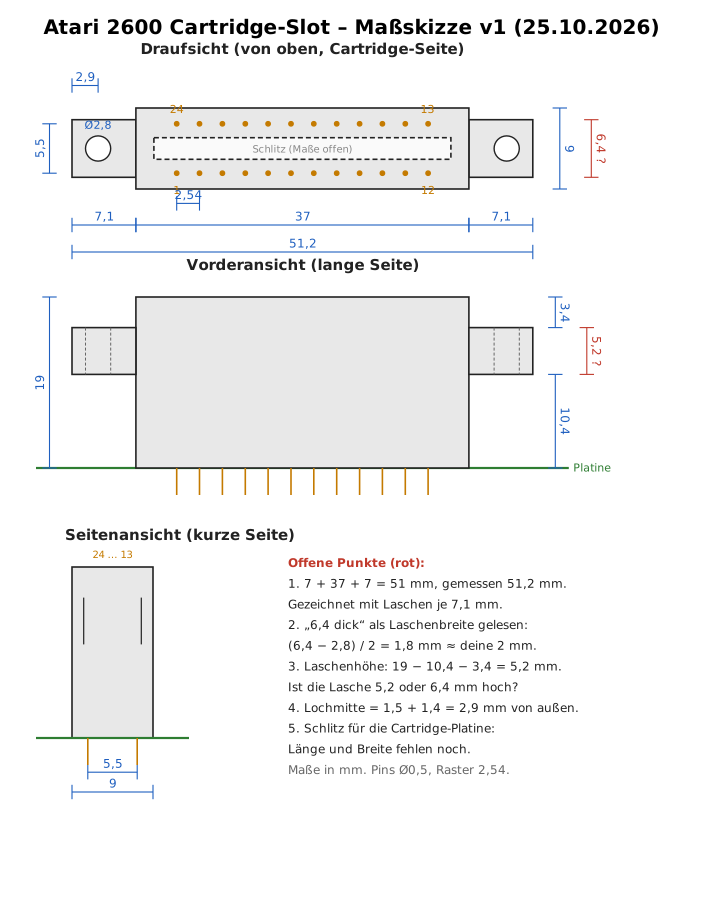
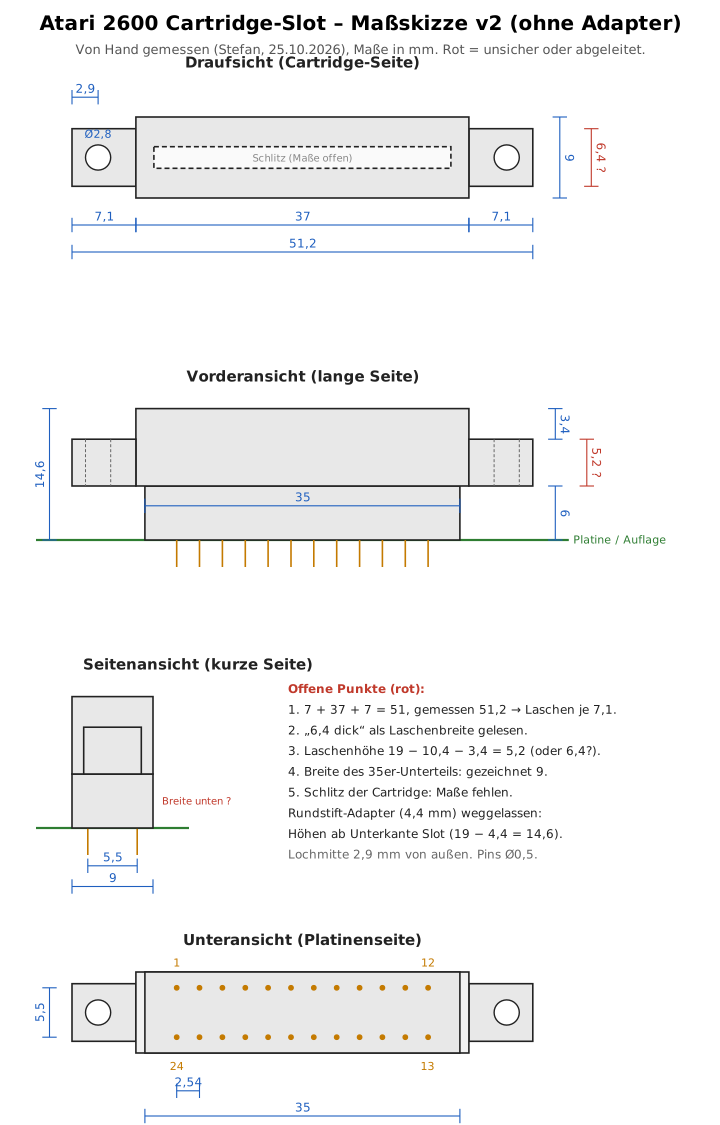
Slot drawing v2: lower part, four views, without socket-strip adapter
Claude-Session: https://claude.ai/code/session_015VQCpzuZ22TPQEmx9cLrbH

diff --git a/hardware/slot-drawing/zeichnung.py b/hardware/slot-drawing/zeichnung.py
@@ -1,16 +1,23 @@
-# 2D-Massskizze Atari-2600-Cartridge-Slot nach Stefans Messung (25.10.2026)
+# 2D-Massskizze Atari-2600-Cartridge-Slot, von Hand gemessen (Stefan, 25.10.2026)
 import sys
-L, W, H = 51.2, 9.0, 19.0          # Gesamtlaenge, -breite, Hoehe ueber Platine
+L, W = 51.2, 9.0
+ADP = 4.4                           # abgezogener Rundstift-Adapter (10,4 - 6), nicht verbaut
+H = 19.0 - ADP                      # Hoehe ab Unterkante Slot
 INNER = 37.0                        # Steckleiste ohne Laschen
-EAR = (L - INNER) / 2               # Laschenlaenge (gemessen 7, Summe passt nur mit 7,1)
-EAR_W = 6.4                         # Laschenbreite (Annahme: "6,4 dick" = Breite)
-HOLE_D, HOLE_EDGE = 2.8, 1.5        # Loch, Abstand Lochrand zur Aussenkante
+LOW_L, LOW_H = 35.0, 6.0            # schmaler Unterteil unter den Laschen
+EAR = (L - INNER) / 2
+EAR_W = 6.4                         # Annahme: "6,4 dick" = Laschenbreite
+HOLE_D, HOLE_EDGE = 2.8, 1.5
 HOLE_X = HOLE_EDGE + HOLE_D / 2
-EAR_Z0, EAR_TOP_GAP = 10.4, 3.4     # Lasche ab Platine, Absatz bis Oberkante
+EAR_Z0, EAR_TOP_GAP = 10.4 - ADP, 3.4
 EAR_Z1 = H - EAR_TOP_GAP
+STRIP_W = 2.5                       # Buchsenleiste einreihig, typisch
 PITCH, ROW, NPIN, PIN_D = 2.54, 5.5, 12, 0.5
-S = 9                               # px pro mm
+STRIP_L = NPIN * PITCH
+S = 9
+RED, DIM, PIN, ADPC = '#c0392b', '#1f5fbf', '#c47a00', '#d9c7a0'
 out = []
+def f(v): return f'{v:.1f}'.replace('.', ',').replace(',0', '') if abs(v - round(v)) < 1e-6 else f'{v:.1f}'.replace('.', ',')
 def ln(x1, y1, x2, y2, c='#222', w=1.6, dash=None):
     out.append(f'<line x1="{x1*S:.1f}" y1="{y1*S:.1f}" x2="{x2*S:.1f}" y2="{y2*S:.1f}" stroke="{c}" stroke-width="{w}"' + (f' stroke-dasharray="{dash}"' if dash else '') + '/>')
 def rect(x, y, w, h, fill='#e8e8e8', c='#222', dash=None):
@@ -20,84 +27,98 @@ def circ(x, y, d, fill='white', c='#222'):
 def txt(x, y, t, size=13, c='#222', anchor='middle', rot=0, bold=False):
     tr = f' transform="rotate({rot} {x*S:.1f} {y*S:.1f})"' if rot else ''
     out.append(f'<text x="{x*S:.1f}" y="{y*S:.1f}" font-family="DejaVu Sans, sans-serif" font-size="{size}" fill="{c}" text-anchor="{anchor}"' + (' font-weight="bold"' if bold else '') + f'{tr}>{t}</text>')
-DIM = '#1f5fbf'
 def dimh(x1, x2, y, t, c=DIM):
     ln(x1, y, x2, y, c, 1.1); ln(x1, y - .8, x1, y + .8, c, 1.1); ln(x2, y - .8, x2, y + .8, c, 1.1)
     txt((x1 + x2) / 2, y - .5, t, 12, c)
 def dimv(x, y1, y2, t, c=DIM, left=True):
     ln(x, y1, x, y2, c, 1.1); ln(x - .8, y1, x + .8, y1, c, 1.1); ln(x - .8, y2, x + .8, y2, c, 1.1)
     txt(x - .6 if left else x + .6, (y1 + y2) / 2, t, 12, c, 'middle', -90 if left else 90)
-
 pin_x0 = (L - (NPIN - 1) * PITCH) / 2
+def pins(ox, cy):
+    for i in range(NPIN):
+        for dy in (ROW / 2, -ROW / 2):
+            circ(ox + pin_x0 + i * PITCH, cy + dy, PIN_D, PIN, PIN)
+
 # --- Draufsicht ---
-ox, oy = 8, 12
-txt(ox + L / 2, oy - 6, 'Draufsicht (von oben, Cartridge-Seite)', 15, bold=True)
+ox, oy = 8, 13
+txt(ox + L / 2, oy - 5.5, 'Draufsicht (Cartridge-Seite)', 15, bold=True)
 rect(ox, oy + (W - EAR_W) / 2, EAR, EAR_W); rect(ox + L - EAR, oy + (W - EAR_W) / 2, EAR, EAR_W)
 rect(ox + EAR, oy, INNER, W)
 rect(ox + EAR + 2, oy + W / 2 - 1.2, INNER - 4, 2.4, fill='#fafafa', dash='5,3')
 txt(ox + L / 2, oy + W / 2 + .45, 'Schlitz (Maße offen)', 10, '#888')
 for xh in (ox + HOLE_X, ox + L - HOLE_X):
     circ(xh, oy + W / 2, HOLE_D)
-for i in range(NPIN):
-    circ(ox + pin_x0 + i * PITCH, oy + W / 2 + ROW / 2, PIN_D, '#c47a00', '#c47a00')
-    circ(ox + pin_x0 + i * PITCH, oy + W / 2 - ROW / 2, PIN_D, '#c47a00', '#c47a00')
-txt(ox + pin_x0, oy + W / 2 + ROW / 2 + 2.3, '1', 11, '#c47a00'); txt(ox + pin_x0 + 11 * PITCH, oy + W / 2 + ROW / 2 + 2.3, '12', 11, '#c47a00')
-txt(ox + pin_x0, oy + W / 2 - ROW / 2 - 1.2, '24', 11, '#c47a00'); txt(ox + pin_x0 + 11 * PITCH, oy + W / 2 - ROW / 2 - 1.2, '13', 11, '#c47a00')
-dimh(ox, ox + L, oy + W + 7, f'{L:.1f}'.replace('.', ','))
-dimh(ox, ox + EAR, oy + W + 4, f'{EAR:.1f}'.replace('.', ','))
-dimh(ox + EAR, ox + L - EAR, oy + W + 4, f'{INNER:.0f}')
-dimh(ox + L - EAR, ox + L, oy + W + 4, f'{EAR:.1f}'.replace('.', ','))
-dimh(ox, ox + HOLE_X, oy - 2.5, f'{HOLE_X:.1f}'.replace('.', ','))
+dimh(ox, ox + L, oy + W + 6, f(L))
+dimh(ox, ox + EAR, oy + W + 3, f(EAR)); dimh(ox + EAR, ox + L - EAR, oy + W + 3, f(INNER)); dimh(ox + L - EAR, ox + L, oy + W + 3, f(EAR))
+dimh(ox, ox + HOLE_X, oy - 2.2, f(HOLE_X))
 txt(ox + HOLE_X, oy + W / 2 - 2.2, 'Ø2,8', 11, DIM)
 dimv(ox + L + 3, oy, oy + W, '9', left=False)
-dimv(ox + L + 6.5, oy + (W - EAR_W) / 2, oy + (W + EAR_W) / 2, '6,4 ?', c='#c0392b', left=False)
-dimv(ox - 2.5, oy + W / 2 - ROW / 2, oy + W / 2 + ROW / 2, '5,5')
-dimh(ox + pin_x0, ox + pin_x0 + PITCH, oy + W + 1.6, '2,54')
+dimv(ox + L + 6.5, oy + (W - EAR_W) / 2, oy + (W + EAR_W) / 2, '6,4 ?', c=RED, left=False)
+
 # --- Vorderansicht ---
-fx, fy = 8, 52
-txt(fx + L / 2, fy - 22, 'Vorderansicht (lange Seite)', 15, bold=True)
-base = fy
-ln(fx - 4, base, fx + L + 4, base, '#2e7d32', 2.2); txt(fx + L + 4.5, base + .4, 'Platine', 11, '#2e7d32', 'start')
-rect(fx + EAR, base - H, INNER, H)
+fx, base = 8, 60
+txt(fx + L / 2, base - H - 3, 'Vorderansicht (lange Seite)', 15, bold=True)
+ln(fx - 4, base, fx + L + 4, base, '#2e7d32', 2.2); txt(fx + L + 4.5, base + .4, 'Platine / Auflage', 11, '#2e7d32', 'start')
+rect(fx + (L - LOW_L) / 2, base - EAR_Z0, LOW_L, LOW_H)
+rect(fx + EAR, base - H, INNER, H - EAR_Z0)
 for x0 in (fx, fx + L - EAR):
     rect(x0, base - EAR_Z1, EAR, EAR_Z1 - EAR_Z0)
     xh = x0 + (HOLE_X if x0 == fx else EAR - HOLE_X)
-    ln(xh - HOLE_D / 2, base - EAR_Z1, xh - HOLE_D / 2, base - EAR_Z0, '#666', 1, '3,2'); ln(xh + HOLE_D / 2, base - EAR_Z1, xh + HOLE_D / 2, base - EAR_Z0, '#666', 1, '3,2')
+    for s in (-1, 1):
+        ln(xh + s * HOLE_D / 2, base - EAR_Z1, xh + s * HOLE_D / 2, base - EAR_Z0, '#666', 1, '3,2')
 for i in range(NPIN):
-    ln(fx + pin_x0 + i * PITCH, base, fx + pin_x0 + i * PITCH, base + 3, '#c47a00', 1.6)
-dimv(fx - 2.5, base - H, base, '19')
-dimv(fx + L + 2.5, base - EAR_Z0, base, '10,4', left=False)
+    ln(fx + pin_x0 + i * PITCH, base, fx + pin_x0 + i * PITCH, base + 3, PIN, 1.6)
+dimv(fx - 2.5, base - H, base, f(H))
+dimv(fx + L + 2.5, base - EAR_Z0, base, f(EAR_Z0), left=False)
 dimv(fx + L + 2.5, base - H, base - EAR_Z1, '3,4', left=False)
-dimv(fx + L + 6, base - EAR_Z1, base - EAR_Z0, f'{EAR_Z1-EAR_Z0:.1f} ?'.replace('.', ','), c='#c0392b', left=False)
+dimv(fx + L + 6, base - EAR_Z1, base - EAR_Z0, f(EAR_Z1 - EAR_Z0) + ' ?', c=RED, left=False)
+dimh(fx + (L - LOW_L) / 2, fx + (L + LOW_L) / 2, base - EAR_Z0 + 2.2, '35')
+
 # --- Seitenansicht ---
-sx, sy = 8, 82
-txt(sx + 12, sy - 22, 'Seitenansicht (kurze Seite)', 15, bold=True)
-rect(sx + (W - EAR_W) / 2, sy - EAR_Z1, EAR_W, EAR_Z1 - EAR_Z0)
-rect(sx, sy - H, W, H, fill='#e8e8e8')
-ln(sx + (W - EAR_W) / 2, sy - EAR_Z1, sx + (W - EAR_W) / 2, sy - EAR_Z0, '#222', 1.2)
-ln(sx + (W + EAR_W) / 2, sy - EAR_Z1, sx + (W + EAR_W) / 2, sy - EAR_Z0, '#222', 1.2)
-ln(sx - 4, sy, sx + W + 4, sy, '#2e7d32', 2.2)
+sx, sb = 8, 92
+txt(sx + 14, sb - H - 3, 'Seitenansicht (kurze Seite)', 15, bold=True)
+ln(sx - 4, sb, sx + W + 4, sb, '#2e7d32', 2.2)
 for yy in (W / 2 - ROW / 2, W / 2 + ROW / 2):
-    ln(sx + yy, sy, sx + yy, sy + 3, '#c47a00', 1.6)
-dimh(sx, sx + W, sy + 6, '9')
-dimh(sx + W / 2 - ROW / 2, sx + W / 2 + ROW / 2, sy + 3.8, '5,5')
-txt(sx + W / 2, sy - H - 1, '24 … 13', 10, '#c47a00')
+    ln(sx + yy, sb, sx + yy, sb + 3, PIN, 1.6)
+rect(sx, sb - EAR_Z0, W, LOW_H)
+rect(sx, sb - H, W, H - EAR_Z0)
+rect(sx + (W - EAR_W) / 2, sb - EAR_Z1, EAR_W, EAR_Z1 - EAR_Z0)
+dimh(sx, sx + W, sb + 6.5, '9')
+dimh(sx + W / 2 - ROW / 2, sx + W / 2 + ROW / 2, sb + 4.2, '5,5')
+txt(sx + W + 1, sb - EAR_Z0 + LOW_H / 2 + .4, 'Breite unten ?', 10, RED, 'start')
+
+# --- Unteransicht ---
+ux, uy = 8, 108
+txt(ux + L / 2, uy - 3, 'Unteransicht (Platinenseite)', 15, bold=True)
+rect(ux, uy + (W - EAR_W) / 2, EAR, EAR_W); rect(ux + L - EAR, uy + (W - EAR_W) / 2, EAR, EAR_W)
+rect(ux + EAR, uy, INNER, W, fill='#f2f2f2')
+rect(ux + (L - LOW_L) / 2, uy, LOW_L, W)
+for yy in (W / 2 - ROW / 2, W / 2 + ROW / 2):
+    pass
+for xh in (ux + HOLE_X, ux + L - HOLE_X):
+    circ(xh, uy + W / 2, HOLE_D)
+pins(ux, uy + W / 2)
+txt(ux + pin_x0, uy - .6, '1', 11, PIN); txt(ux + pin_x0 + 11 * PITCH, uy - .6, '12', 11, PIN)
+txt(ux + pin_x0, uy + W + 1.9, '24', 11, PIN); txt(ux + pin_x0 + 11 * PITCH, uy + W + 1.9, '13', 11, PIN)
+dimh(ux + pin_x0, ux + pin_x0 + PITCH, uy + W + 4.2, '2,54')
+dimh(ux + (L - LOW_L) / 2, ux + (L + LOW_L) / 2, uy + W + 7, '35')
+dimv(ux - 2.5, uy + W / 2 - ROW / 2, uy + W / 2 + ROW / 2, '5,5')
+
 # --- Hinweise ---
-nx, ny = 32, 63
-notes = [('Offene Punkte (rot):', '#c0392b', True),
-         ('1. 7 + 37 + 7 = 51 mm, gemessen 51,2 mm.', '#222', False),
-         ('   Gezeichnet mit Laschen je 7,1 mm.', '#222', False),
-         ('2. „6,4 dick“ als Laschenbreite gelesen:', '#222', False),
-         ('   (6,4 − 2,8) / 2 = 1,8 mm ≈ deine 2 mm.', '#222', False),
-         ('3. Laschenhöhe: 19 − 10,4 − 3,4 = 5,2 mm.', '#222', False),
-         ('   Ist die Lasche 5,2 oder 6,4 mm hoch?', '#222', False),
-         ('4. Lochmitte = 1,5 + 1,4 = 2,9 mm von außen.', '#222', False),
-         ('5. Schlitz für die Cartridge-Platine:', '#222', False),
-         ('   Länge und Breite fehlen noch.', '#222', False),
-         ('Maße in mm. Pins Ø0,5, Raster 2,54.', '#666', False)]
+nx, ny = 32, 77
+notes = [('Offene Punkte (rot):', RED, True),
+         ('1. 7 + 37 + 7 = 51, gemessen 51,2 → Laschen je 7,1.', '#222', False),
+         ('2. „6,4 dick“ als Laschenbreite gelesen.', '#222', False),
+         ('3. Laschenhöhe 19 − 10,4 − 3,4 = 5,2 (oder 6,4?).', '#222', False),
+         ('4. Breite des 35er-Unterteils: gezeichnet 9.', '#222', False),
+         ('5. Schlitz der Cartridge: Maße fehlen.', '#222', False),
+         ('Rundstift-Adapter (4,4 mm) weggelassen:', '#222', False),
+         ('Höhen ab Unterkante Slot (19 − 4,4 = 14,6).', '#222', False),
+         ('Lochmitte 2,9 mm von außen. Pins Ø0,5.', '#666', False)]
 for i, (t, c, b) in enumerate(notes):
     txt(nx, ny + i * 2.3, t, 12, c, 'start', bold=b)
-w, h = 78 * S, 100 * S
+w, h = 80 * S, 125 * S
 svg = f'<svg xmlns="http://www.w3.org/2000/svg" width="{w}" height="{h}" viewBox="0 0 {w} {h}"><rect width="100%" height="100%" fill="white"/>' + \
-      f'<text x="{w/2}" y="34" font-family="DejaVu Sans, sans-serif" font-size="20" font-weight="bold" text-anchor="middle">Atari 2600 Cartridge-Slot – Maßskizze v1 (25.10.2026)</text>' + ''.join(out) + '</svg>'
+      f'<text x="{w/2}" y="30" font-family="DejaVu Sans, sans-serif" font-size="20" font-weight="bold" text-anchor="middle">Atari 2600 Cartridge-Slot – Maßskizze v2 (ohne Adapter)</text>' + \
+      f'<text x="{w/2}" y="54" font-family="DejaVu Sans, sans-serif" font-size="13" fill="#555" text-anchor="middle">Von Hand gemessen (Stefan, 25.10.2026), Maße in mm. Rot = unsicher oder abgeleitet.</text>' + ''.join(out) + '</svg>'
 open(sys.argv[1], 'w').write(svg)

diff --git a/hardware/README.md b/hardware/README.md
@@ -40,13 +40,16 @@ Uno: MCP23017 at I2C 0x20 (A0–A2 to GND, RESET to +5 V), SDA = A4, SCL = A5 wi
 
 ## Cartridge slot drawing
 
-[`slot-drawing/slot-masse.png`](slot-drawing/slot-masse.png) is a 2D dimension sketch of the 24-pin cartridge slot (top, front and side views), drawn from hand measurements; `zeichnung.py` regenerates it. It is the basis for the planned 3D-printed cartridge guide. A slot from another source may differ, so check these values first:
+[`slot-drawing/slot-masse.png`](slot-drawing/slot-masse.png) is a 2D dimension sketch of the 24-pin cartridge slot (top, front, side and bottom views), measured by hand; `zeichnung.py` regenerates it. It is the basis for the planned 3D-printed cartridge guide. A slot from another source may differ, so check these values first:
 
 - Pins 2×12, pitch 2.54 mm, rows 5.5 mm apart (centre to centre).
-- Overall length 51.2 mm, width 9 mm, height 19 mm above the board.
+- Overall length 51.2 mm, width 9 mm, height 14.6 mm above the board.
+- Lower part below the flanges: 35 mm long, 6 mm high (width assumed 9 mm).
 - Mounting flanges 7.1 mm long, 6.4 mm wide (assumed), with a Ø2.8 mm hole centred 2.9 mm from the outer edge.
-- Flange underside 10.4 mm above the board, 3.4 mm below the slot top (flange height 5.2 mm, not yet confirmed).
+- Flange underside 6 mm above the board, 3.4 mm below the slot top (flange height 5.2 mm, not yet confirmed).
 - Card slot opening: not yet measured.
+
+The measured slot sat on round-pin socket strips (4.4 mm extra height). They are not needed and are left out; the guide sets the cartridge height instead.
 
 ## Rebuild
 
